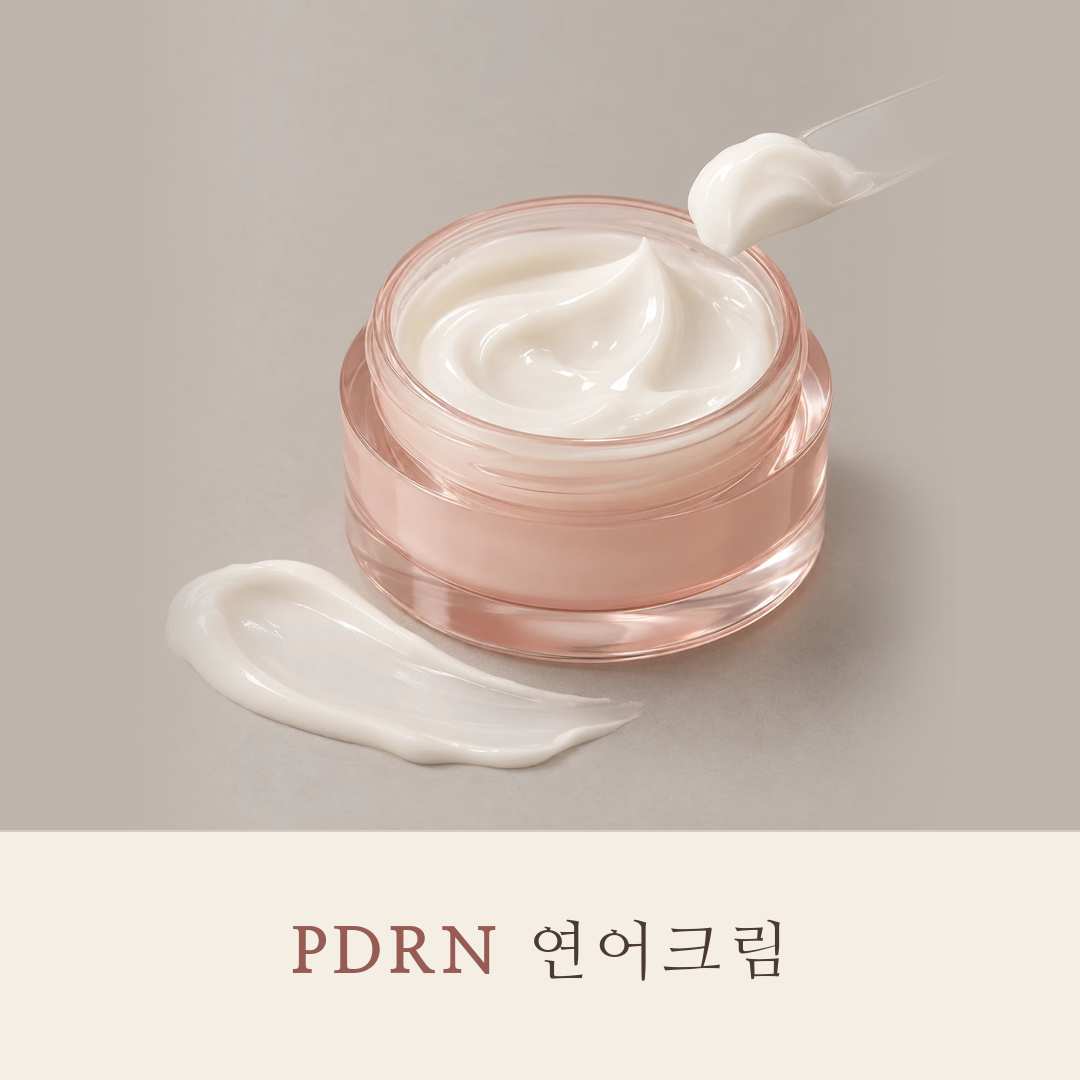
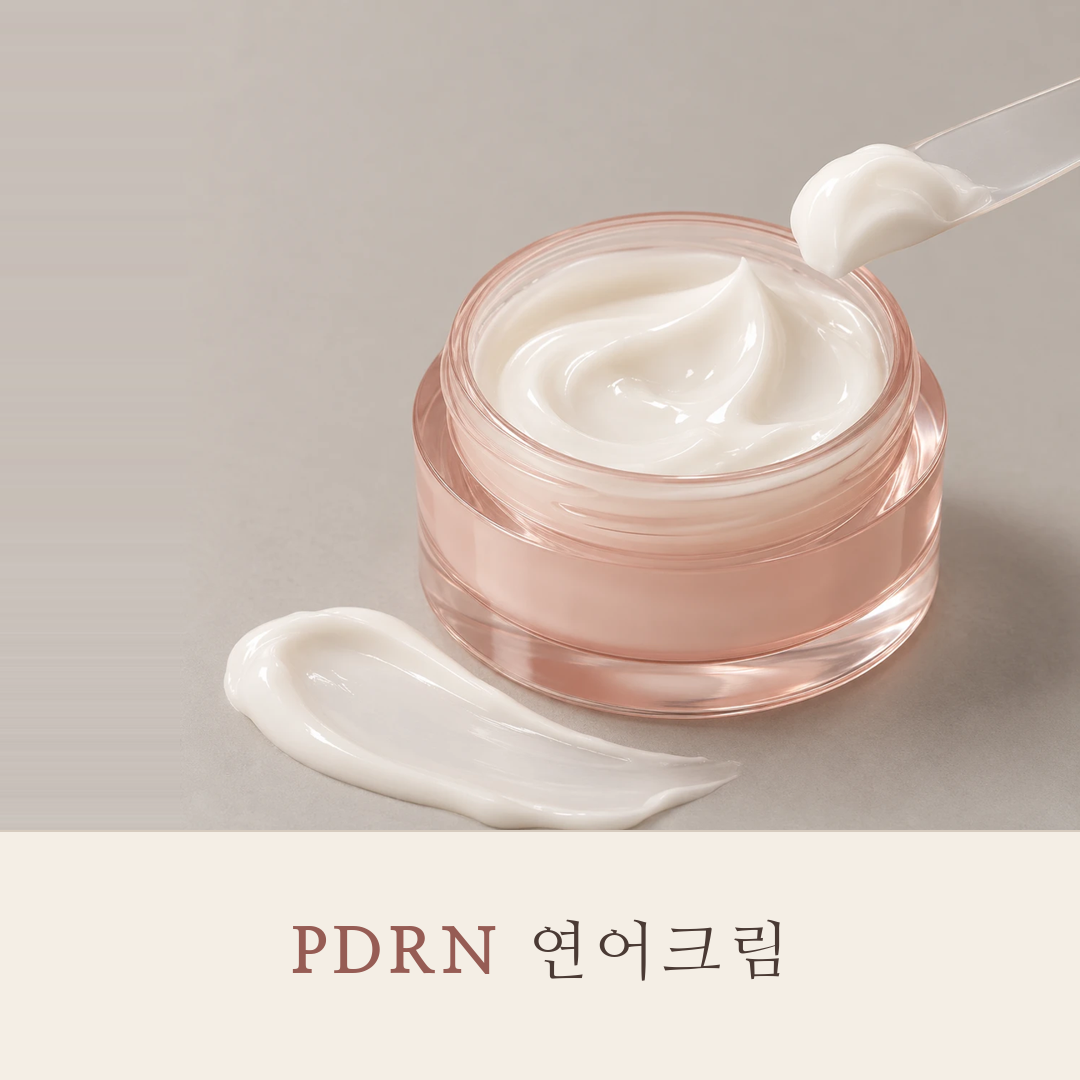
fix: keep the spatula fully visible in the round 2 ad images

Changed region(s): [[0.1833, 0.1222, 1.0, 0.7944], [0.9472, 0.1528, 1.0, 0.1833]]

diff --git a/ads/r2/make_overlay.py b/ads/r2/make_overlay.py
@@ -8,7 +8,7 @@ Run from the repo root: python3 ads/r2/make_overlay.py
 """
 from pathlib import Path
 
-from PIL import Image, ImageDraw, ImageFilter, ImageFont
+from PIL import Image, ImageDraw, ImageFont
 
 ADS = Path(__file__).resolve().parents[1]
 BASE_IMAGE = ADS / "r1" / "r1_B_texture_1x1.png"
@@ -20,13 +20,12 @@ FONT_INDEX_REGULAR = 0
 FONT_INDEX_ACCENT = 2  # ExtraBold
 
 CANVAS = 1080
-PHOTO_SIZE = 830
+PHOTO_SIZE = 900
 LABEL_HEIGHT = 250
 FONT_SIZE = 64
 TRACKING = 6
 LINE_HEIGHT = 98
-EDGE_FADE = 70
-EDGE_BLUR = 42
+EDGE_SAMPLE = 6
 
 INK = (74, 58, 52)
 ACCENT = (150, 92, 84)
@@ -44,18 +43,17 @@ COPIES = {
 
 
 def photo_on_canvas() -> Image.Image:
-    """Shrink the photo, centre it at the top and fade its left and right edges into the backdrop."""
-    photo = Image.open(BASE_IMAGE).convert("RGB")
-    backdrop = photo.crop((0, 0, photo.width, 40)).resize((1, 1)).getpixel((0, 0))
-    canvas = Image.new("RGB", (CANVAS, CANVAS), backdrop)
-    photo = photo.resize((PHOTO_SIZE, PHOTO_SIZE))
-    pad = 160
-    mask = Image.new("L", (PHOTO_SIZE + 2 * pad, PHOTO_SIZE + 2 * pad), 255)
-    draw = ImageDraw.Draw(mask)
-    draw.rectangle((0, 0, pad + EDGE_FADE, mask.height), fill=0)
-    draw.rectangle((pad + PHOTO_SIZE - EDGE_FADE, 0, mask.width, mask.height), fill=0)
-    mask = mask.filter(ImageFilter.GaussianBlur(EDGE_BLUR)).crop((pad, pad, pad + PHOTO_SIZE, pad + PHOTO_SIZE))
-    canvas.paste(photo, ((CANVAS - PHOTO_SIZE) // 2, 0), mask)
+    """Shrink the photo and keep it flush with the top and right edges so nothing in it is cut or faded.
+
+    The empty strip on the left is filled by stretching the photo's own left edge, row by row,
+    so the backdrop continues without a seam.
+    """
+    photo = Image.open(BASE_IMAGE).convert("RGB").resize((PHOTO_SIZE, PHOTO_SIZE))
+    margin = CANVAS - PHOTO_SIZE
+    canvas = Image.new("RGB", (CANVAS, CANVAS))
+    edge = photo.crop((0, 0, EDGE_SAMPLE, PHOTO_SIZE)).resize((1, PHOTO_SIZE)).resize((margin, PHOTO_SIZE))
+    canvas.paste(edge, (0, 0))
+    canvas.paste(photo, (margin, 0))
     return canvas
 
 
